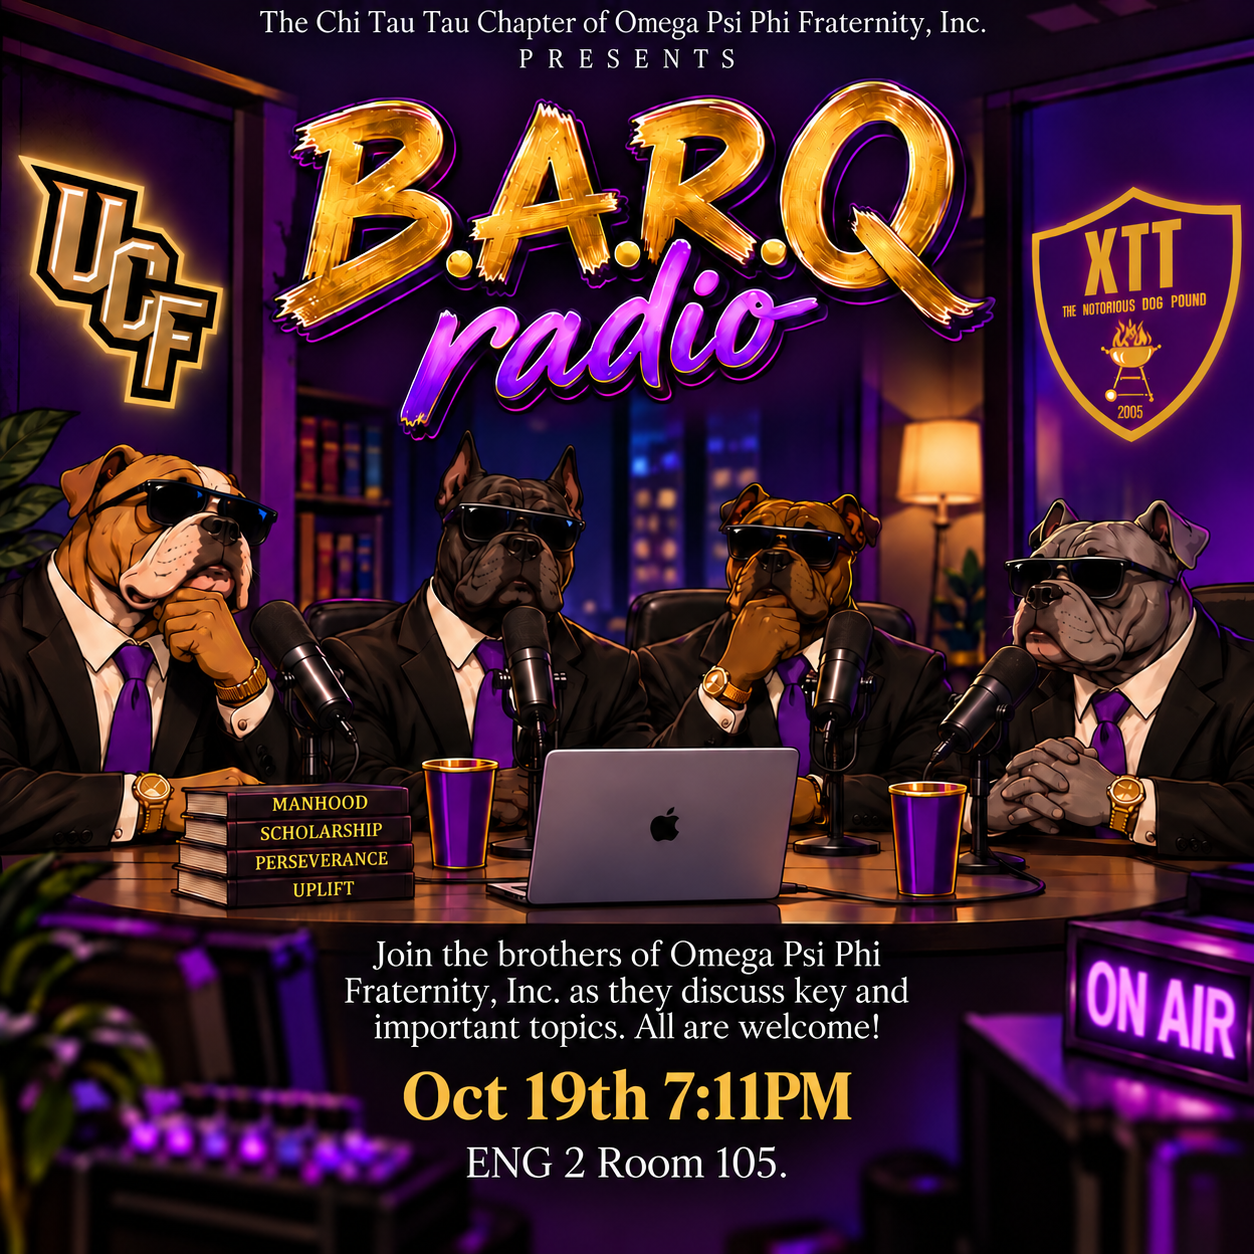
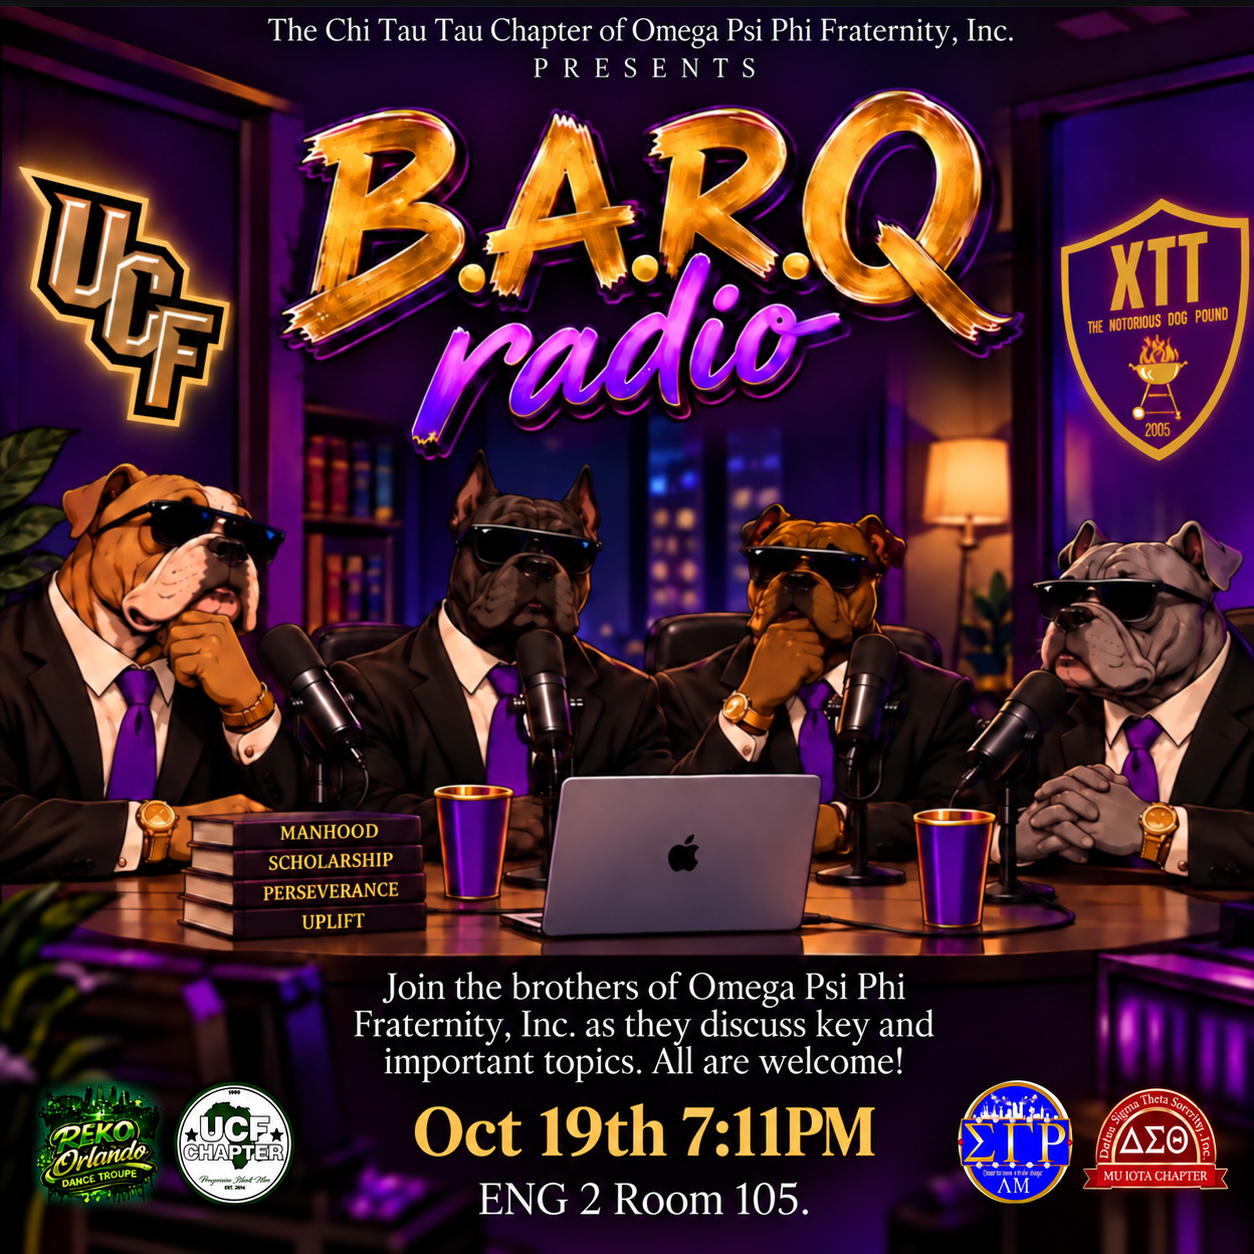
Update the lineage and BarQ-Radio flyer

diff --git a/content/about/lineage.md b/content/about/lineage.md
@@ -20,7 +20,7 @@ Travis Johnson
 
 Author Jamison
 
-Jaime Henderson
+Jamey Henderson
 
 Ty Pope
 
@@ -56,7 +56,7 @@ Pat Brinson
 
 Rufus Hall
 
-Rashad Morgan
+Rahshard Morgan
 
 Kenny Young (Omega Chapter)
 
@@ -82,7 +82,7 @@ Von Eric Gordon
 
 ### Fall 2003 - The Dreaded 4
 
-Jerome Shane Williams
+Jerome Ashane Williams
 
 Chester Alphonso Jones Jr.
 
@@ -150,7 +150,7 @@ Derrick Hallman
 
 Jecory Ellis
 
-Jack Carter
+Jackie Carter
 
 Chad Alexander
 
@@ -268,9 +268,9 @@ Deion Perry
 
 Eduardo Paredes Monegro
 
-Luke Coz
+Luke Cox
 
-Person Pierre Jean
+Peterson Pierre Jean
 
 Frederic Freeman III
 
